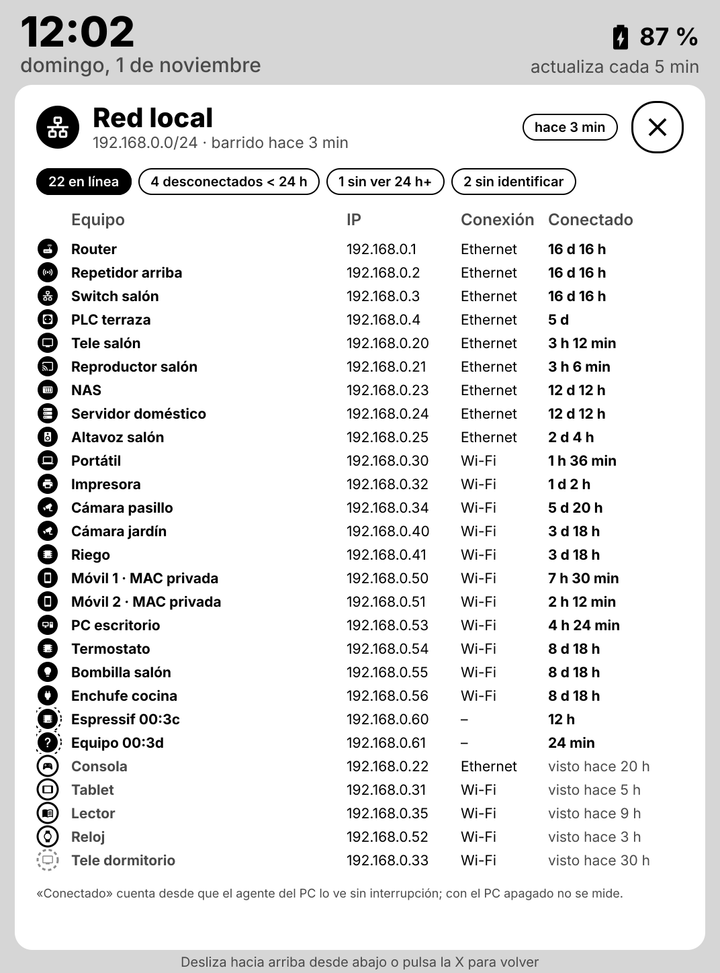
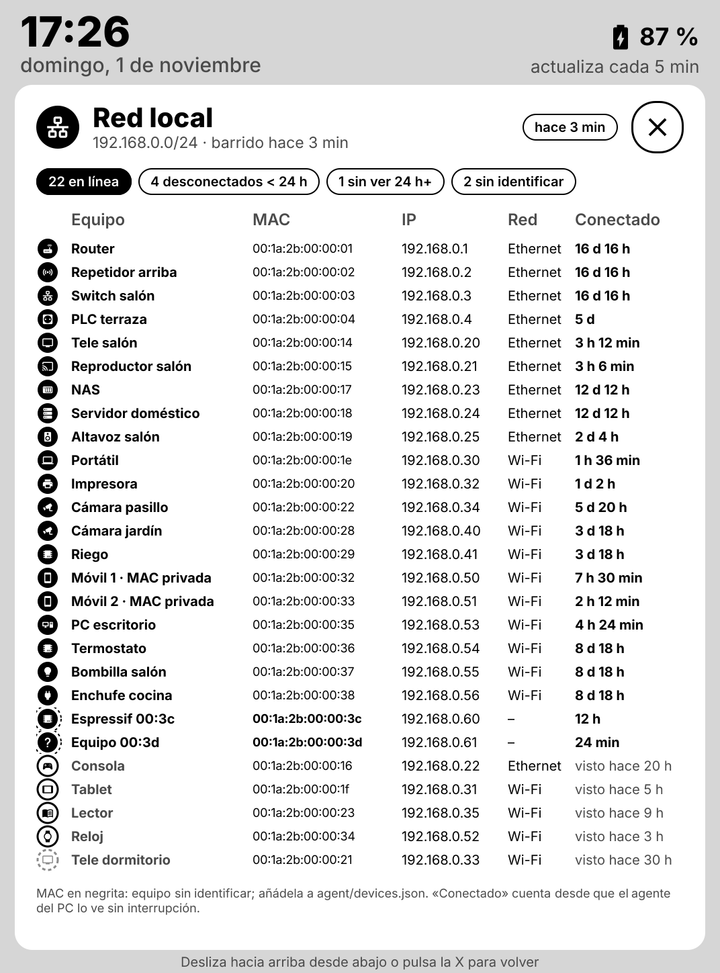
Agregar sondeo de entradas Stale en el escaneo de red y actualizar la visualización de la lista de dispositivos

Changed region(s): [[0.0611, 0.2158, 0.9167, 0.9558], [0.0611, 0.0, 0.1833, 0.0617]]

diff --git a/server/render/network.js b/server/render/network.js
@@ -337,13 +337,14 @@ export function networkList(src, { detail, label, W }) {
     (a, b) => rank[statusOf(a, now)] - rank[statusOf(b, now)] || (a.ip || '').localeCompare(b.ip || '', 'es', { numeric: true }),
   );
   const shown = all.slice(0, MAX_ROWS);
-  const cols = { name: 410, ip: 170, link: 130, time: W - 410 - 170 - 130 - 52 };
+  const cols = { name: 270, mac: 222, ip: 158, link: 100, time: W - 270 - 222 - 158 - 100 - 52 };
 
   const head = row(
     { gap: 0, paddingLeft: 52 },
     div({ width: cols.name }, label('Equipo')),
+    div({ width: cols.mac }, label('MAC')),
     div({ width: cols.ip }, label('IP')),
-    div({ width: cols.link }, label('Conexión')),
+    div({ width: cols.link }, label('Red')),
     div({ width: cols.time }, label('Conectado')),
   );
   const rows = shown.map((x) => {
@@ -353,10 +354,11 @@ export function networkList(src, { detail, label, W }) {
     return row(
       { gap: 0, height: 34 },
       el('svg', { width: 52, height: 34, viewBox: '0 0 52 34' }, nodeShape(17, 17, 15, ICONS[x.type] || mdiHelp, status, { dashed: !x.known }).filter(Boolean)),
-      text(fit(name, cols.name - 10, 21), { width: cols.name, fontSize: 21, fontWeight: 700, color: dim ? C.dim : C.ink, whiteSpace: 'nowrap' }),
-      text(x.ip || '–', { width: cols.ip, fontSize: 21 }),
-      text(LINK[x.link] || '–', { width: cols.link, fontSize: 21 }),
-      text(x.online ? (x.onlineSince ? duration(now - new Date(x.onlineSince)) : 'en línea') : whenLine(x, now), { width: cols.time, fontSize: 21, fontWeight: x.online ? 700 : 400, color: dim ? C.dim : C.ink }),
+      text(fit(name, cols.name - 10, 20), { width: cols.name, fontSize: 20, fontWeight: 700, color: dim ? C.dim : C.ink, whiteSpace: 'nowrap' }),
+      text(x.mac && x.mac.includes(':') ? x.mac : '–', { width: cols.mac, fontSize: 18, letterSpacing: -0.2, fontWeight: x.known ? 400 : 700 }),
+      text(x.ip || '–', { width: cols.ip, fontSize: 20 }),
+      text(LINK[x.link] || '–', { width: cols.link, fontSize: 20 }),
+      text(x.online ? (x.onlineSince ? duration(now - new Date(x.onlineSince)) : 'en línea') : whenLine(x, now), { width: cols.time, fontSize: 20, fontWeight: x.online ? 700 : 400, color: dim ? C.dim : C.ink }),
     );
   });
   return detail(
@@ -366,7 +368,7 @@ export function networkList(src, { detail, label, W }) {
     col({ gap: 1, marginTop: -10 }, rows),
     all.length > shown.length && text(`y ${num(all.length - shown.length)} más`, { fontSize: 20, color: C.dim }),
     text(
-      `«Conectado» cuenta desde que el agente del PC lo ve sin interrupción; con el PC apagado no se mide.`,
+      `MAC en negrita: equipo sin identificar; añádela a agent/devices.json. «Conectado» cuenta desde que el agente del PC lo ve sin interrupción.`,
       { fontSize: 18, color: C.dim },
     ),
     errorLine(src),
